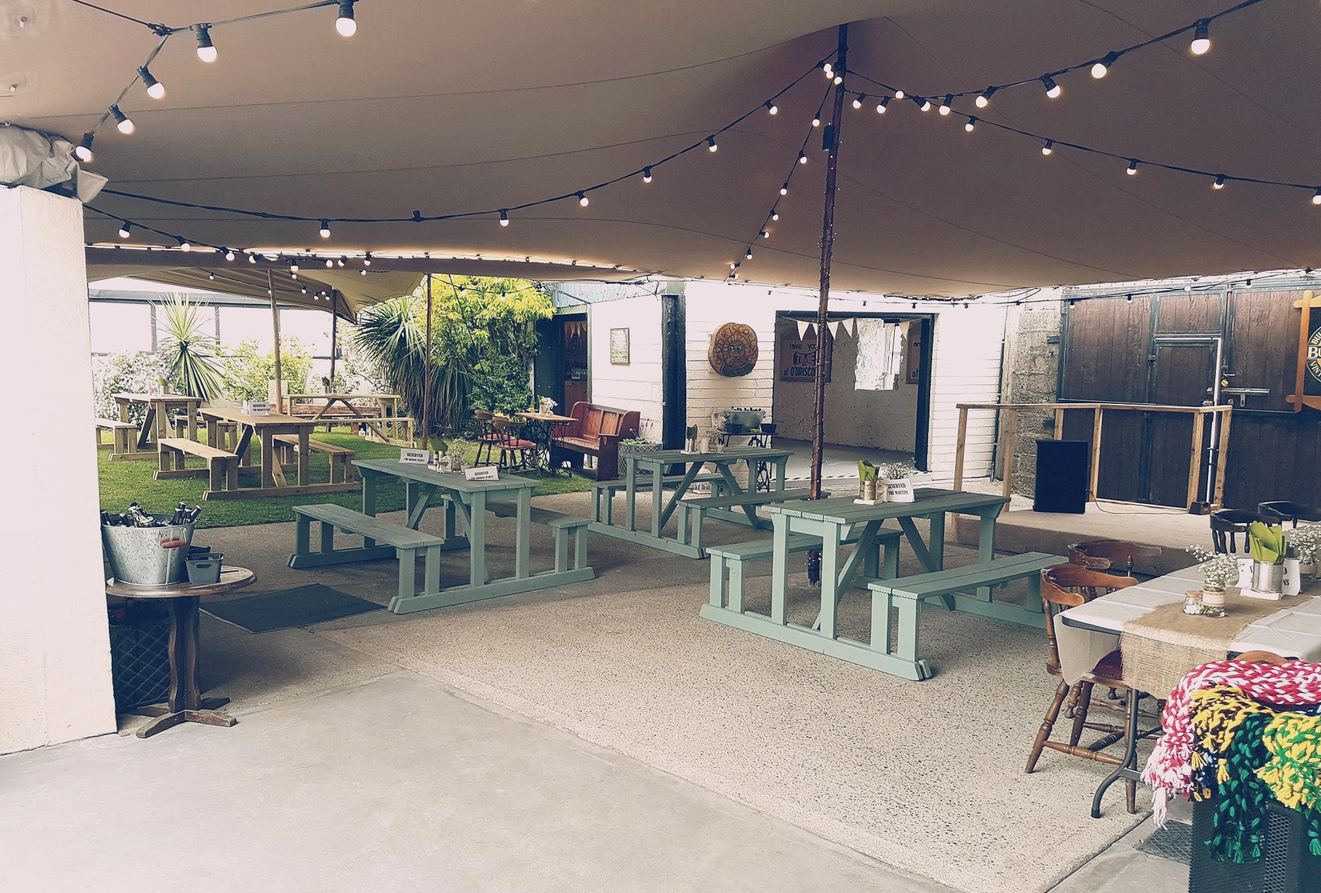
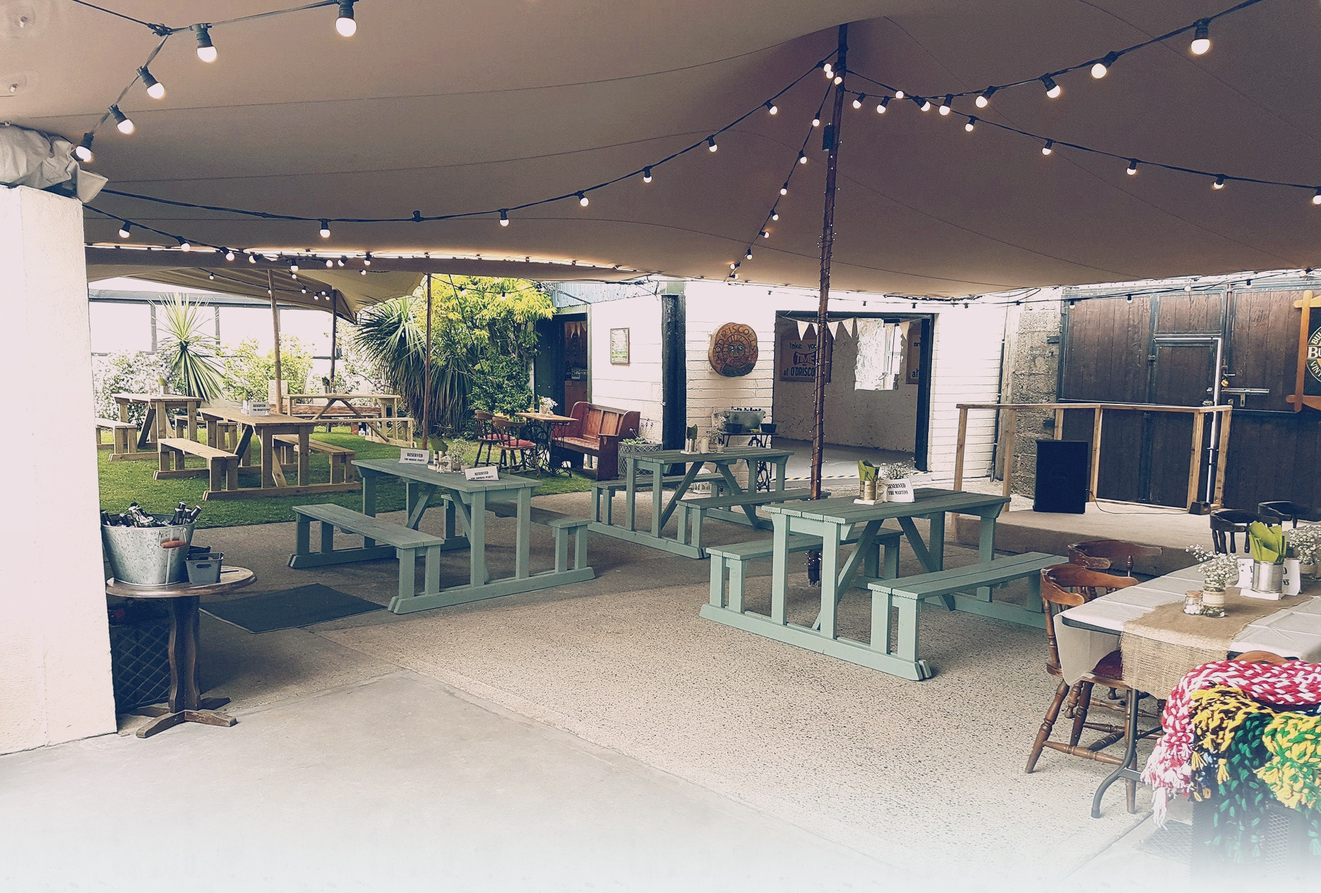
Fixed shadow and removed any PNG file for JPG. Deleted unused images.

Changed region(s): [[0.2188, 0.8389, 1.0, 1.0]]

diff --git a/pages/index.vue b/pages/index.vue
@@ -2,7 +2,7 @@
   <div>
     <div class="header header--style mb-8">
         <picture>
-            <source srcset="~/assets/images/garden-large.png" media="(min-width: 1200px)">
+            <source srcset="~/assets/images/garden-large.jpg" media="(min-width: 1200px)">
             <source srcset="~/assets/images/garden-medium.jpg" media="(min-width: 576px)">
             <img src="~/assets/images/garden.jpg" alt="Beer garden ready for a wedding">
         </picture>

diff --git a/pages/FAQ.vue b/pages/FAQ.vue
@@ -3,7 +3,7 @@
     <div>
         
         <picture>
-            <source srcset="~/assets/images/garden-bench-large.png" media="(min-width: 1200px)">
+            <source srcset="~/assets/images/garden-bench-large.jpg" media="(min-width: 1200px)">
             <source srcset="~/assets/images/garden-bench-medium.jpg" media="(min-width: 576px)">
             <img src="~/assets/images/garden-bench.jpg" alt="Beer garden ready for a wedding">
         </picture>

diff --git a/assets/sass/_variables.sass b/assets/sass/_variables.sass
@@ -7,7 +7,7 @@ $white: #f5f5f5
 $yellow: #D59567
 
 // Shadows
-$shadow: 0 30px 40px -10px rgba(127, 106, 85, .25)
+$shadow: 0 30px 50px -10px RGBA(23, 38, 58, .25)
 
 //Border
 $border: 6px solid lighten($light, 5%)
